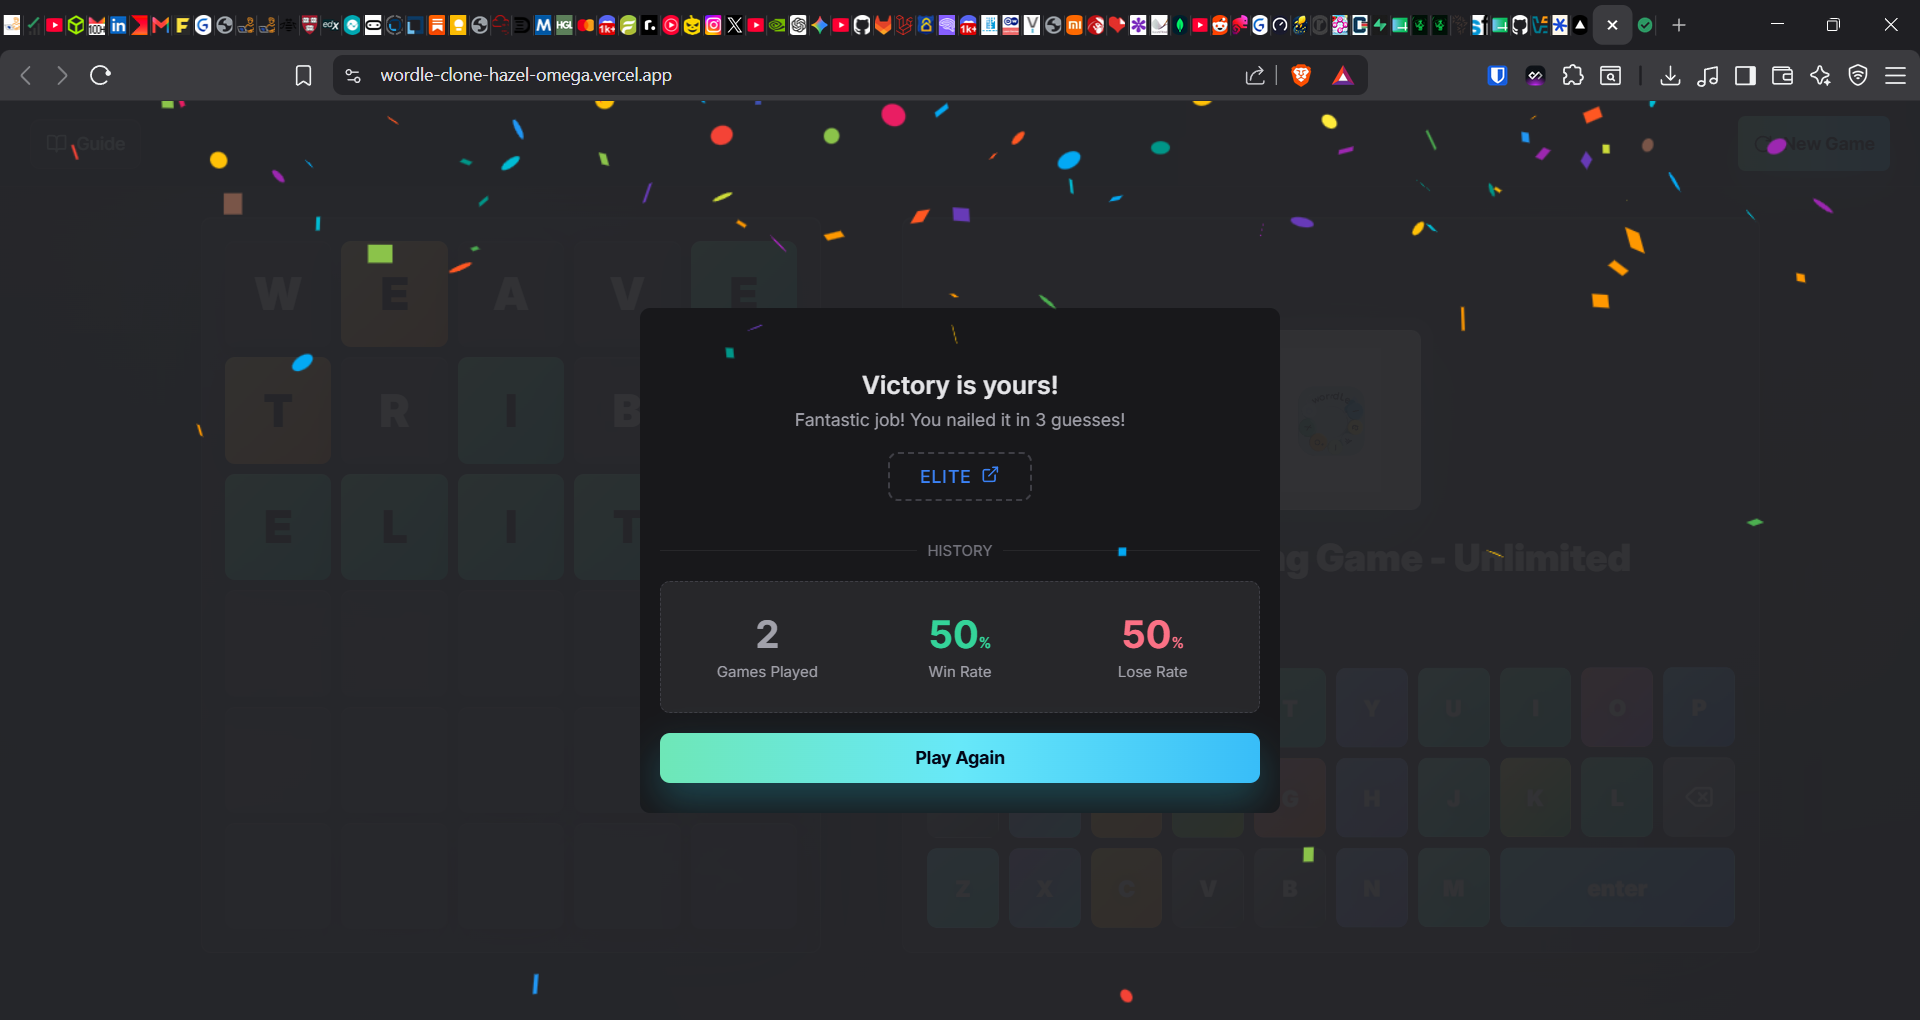
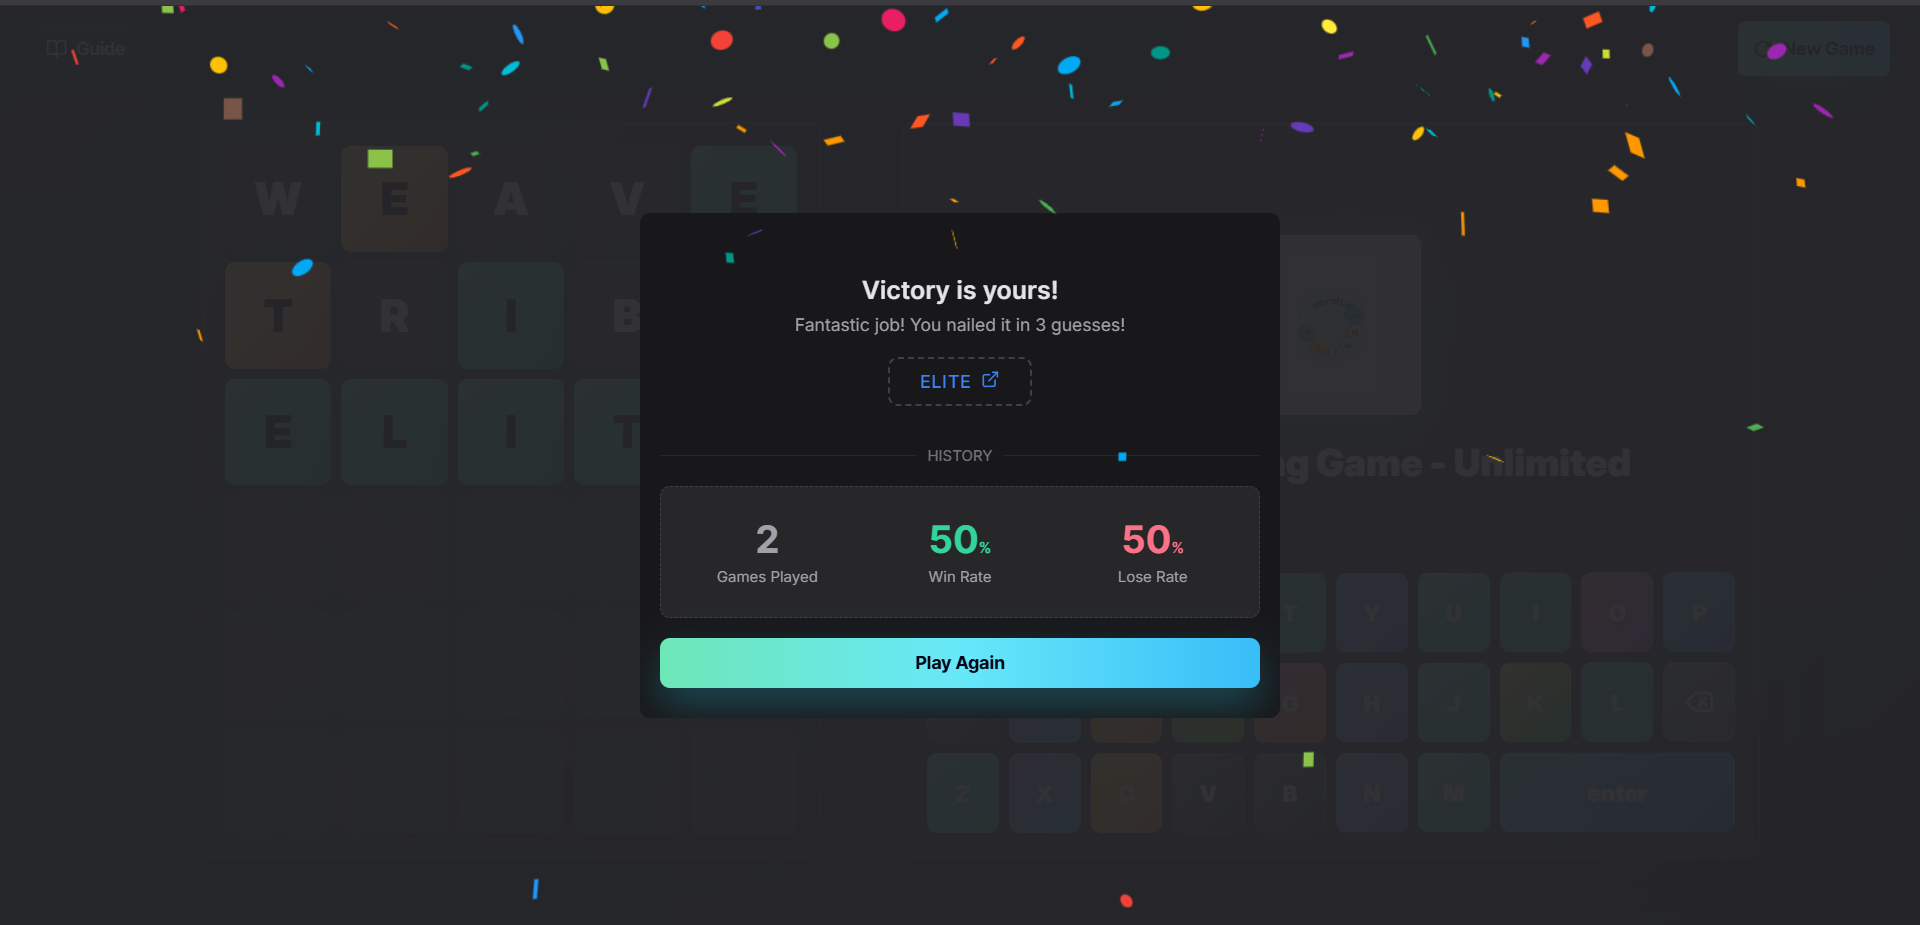
assets new

diff --git a/Readme.md b/Readme.md
@@ -15,8 +15,8 @@ A learning project built with React and TypeScript - created for educational pur
 
 <br>
 
-![screenshot](Assets/looks-like.png)
-![screenshot](Assets/Victory.png)
+![screenshot](Assets/look-like.png)
+![screenshot](Assets/victory.png)
 
 ## Features
 
